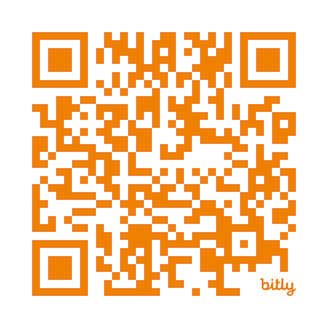
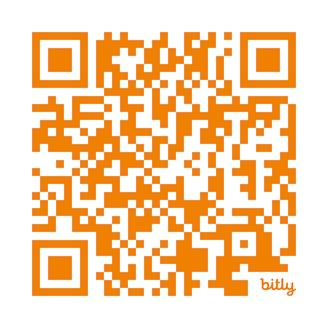
Dr. Venkat Subramaniam - Scaling Up with Virtual Threads in Java - October 2024

Changed region(s): [[0.0915, 0.0915, 0.9146, 0.9146]]

diff --git a/sections/cjug.md b/sections/cjug.md
@@ -1,9 +1,10 @@
 ## Chicago Java Users Group
 ---
 
-### September 19, 2024
-## Polyglot Pipelines with Apache Nifi
-## by Bob Paulin
+### October 21, 2024
+<br/>
+### Scaling Up with Virtual Threads in Java
+### by Dr. Venkat Subramaniam
 <div style="background-color: white; margin-top: 30px;">
 	<img src="images/cjug.gif" style="border: none; box-shadow: none;"/>
 </div>
@@ -14,7 +15,7 @@
 <img src="images/JetBrains-2022-twitter.jpg" style="border:none; box-shadow:none; margin: 14px; background:white;"/>
 <img src="images/CJUG-JB-raffle-QR.png" style="border:none; box-shadow:none; margin: 14px; background:white;"/>
 <br/>
-##### Submit your info here to enter into the drawings: [https://bit.ly/4eMYnzJ](https://bit.ly/4eMYnzJ)
+##### Submit your info here to enter into the drawings: [https://bit.ly/3UhvFis](https://bit.ly/3UhvFis)
 ####NOTE: You are ineligible to participate
 ####if you won a license within the last 9 months!
 
@@ -41,7 +42,7 @@
 
 <img src="images/cjug-discord-qrcode.png" style="border:none; box-shadow:none; margin: 30px; background:white;"/>
 
-Join this room: [#2024-09-19-polyglot-pipelines-apache-nifi](https://discord.gg/D9xyJMPwNW)
+Join this room: [#2024-10-21-scalingvirtualthreads-venkat](https://discord.gg/N58VSkRkMm)
 
 --section--
 ##Community Info
@@ -51,21 +52,16 @@ Join this room: [#2024-09-19-polyglot-pipelines-apache-nifi](https://discord.gg/
 * JetBrains (https://jetbrains.com/community)
 * DevITJobs.us (http://devitjobs.us/community)
 
+
 --section--
-## dev2next conference - by the living legend Venkat Subramaniam
-<br/> 
-September 30 - October 3
-<br/>
-https://www.dev2next.com/
+##A 24-Hour Free Virtual Developer Conference by Neo4j
+Join us on November 7
 <br/><br/>
-<img src="images/Dev2next2024-Venkat-QR.png" style="border:none; box-shadow:none; margin: 30px; background:white;"/>
-<br/>
+[NODES24]( https://neo4j.com/nodes2024/agenda/#americas)
 
 --section--
 ## Upcoming Event(s)
-* October 21: Venkat Subramaniam !!
-* October 21-23 - GOTO Chicago !!
-* November 19: Jennifer Reif (from Neo4j) !!
+* November 19: Jennifer Reif (Neo4j) and a short talk by Dmitry Chuyko(BellSoft)
 <br/><br/>
 * Other confirmed speakers include: <br/>Alina Yurenko (Oracle/GraalVM), Jose Paumard (Oracle)
 <br/><br/>

diff --git a/sections/speaker.md b/sections/speaker.md
@@ -1,14 +1,14 @@
-### Speaker for today: CJUG's very own...
+### Speaker for today: The Living Legend!!
 
-## Bob Paulin [@bobpaulin](https://x.com/bobpaulin)
-- Currently a Principal Engineer at Datavolo
-- Independent Software Consultant for 12+ years
-- Deep software development and analytical background
-- VP of Fundraising at the Apache Software Foundation
-- Involved with multiple Apache projects as PMC and/or committer (Tika, Felix, Camel)
-- CJUG Board Member and Leader since 2013 (President, Sponsorship, CFO...)
-- Proud Dad and Coach to 4 beautiful children
-
+## Dr. Venkat Subramaniam [@venkat_s](https://x.com/venkat_s)
+- One of the World's Best Living Legends in Software Computing!!
+- He inspires developers from all corners of the world (US, Asia, Europe...)
+- A highly sought-after speaker and trainer in both academic and business worlds
+- A true Polyglot Programmer with deep expertise in many languages
+- An award-winning author and co-author of multiple publications and books
+- Contagious and Passion for Software Development
+- Founder of Agile Developer, Inc.
+- An Instructional Professor at the University of Houston
 
 
 
